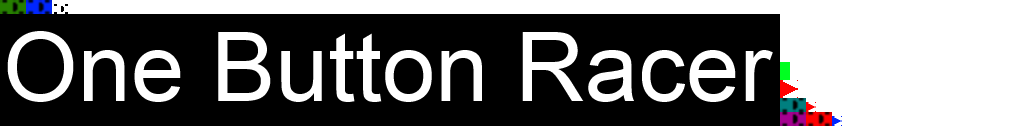
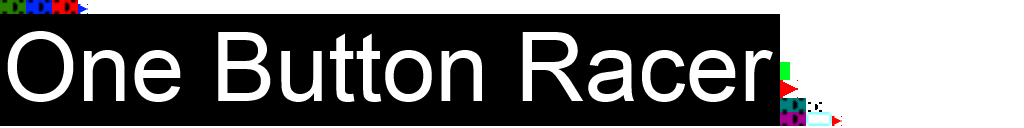
Added 'transparent' car graphic.

Changed region(s): [[0.7812, 0.7812, 0.8438, 1.0], [0.0312, 0.0, 0.0938, 0.125]]

diff --git a/ld28/src/ld28/WorldRenderer.java b/ld28/src/ld28/WorldRenderer.java
@@ -188,7 +188,7 @@ class CarRenderer {
 		this.obscuring = obscuring;
 		this.polysByPiece = polysByPiece;
 		carImage = Kernel.images.get("atlases/ld28/dullmagentacar");
-		obscuredCarImage = Kernel.images.get("atlases/ld28/dullcyancar");
+		obscuredCarImage = Kernel.images.get("atlases/ld28/transparentcar");
 		redCarImage = Kernel.images.get("atlases/ld28/redcar");
 		blueCarImage = Kernel.images.get("atlases/ld28/bluecar");
 		redArrowImage = Kernel.images.get("atlases/ld28/redarrow");
